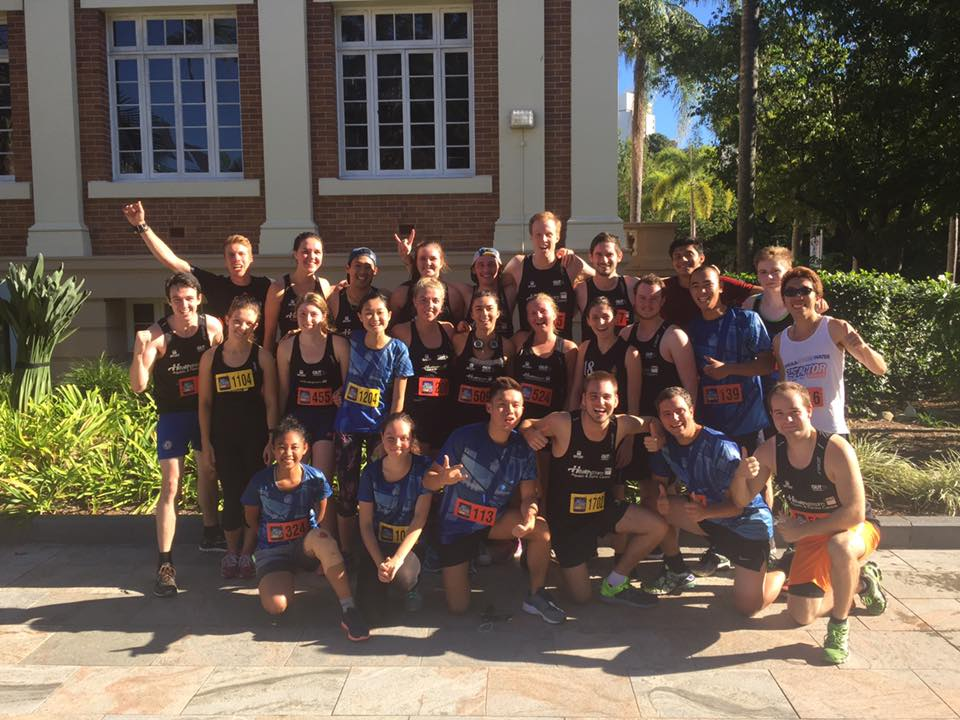
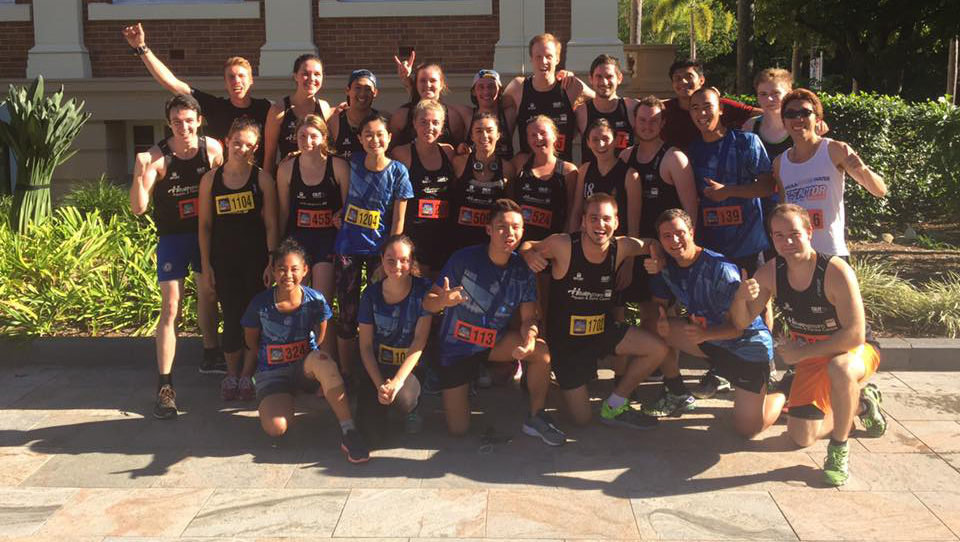
Edits carousel. Adds slide about semester break

diff --git a/index.html b/index.html
@@ -84,18 +84,15 @@
 					</ol>
 					<div class="carousel-inner" role="listbox">
 						<div class="item active">
-							<img class="first-slide" src="./public/img/trannies_grannies.jpg" alt="First slide">
+							<img class="first-slide" src="./public/img/qut_classic_winner_team.jpg" alt="First slide">
 							<div class="container">
 								<div class="carousel-caption">
-									<h1>End of Semester Party</h1>
+									<h1>Semester Break</h1>
 									<p>
-										When: Friday 3rd June 2016<br>
-										Time: 7:00 PM<br>
-										Where: Grove Bar<br>
-										Theme: Trannies & Grannies<br>
+										Keep an eye on our facebook group to get notified about any sessions run over the holidays.<br>
 										<br>
 
-										<a class="btn btn-lg btn-orange" href="https://www.facebook.com/events/500704476807282/" role="button">Facebook Event</a>
+										<a class="btn btn-lg btn-orange" href="https://www.facebook.com/groups/qutrunning/" role="button">Facebook Group</a>
 									</p>
 
 								</div>
